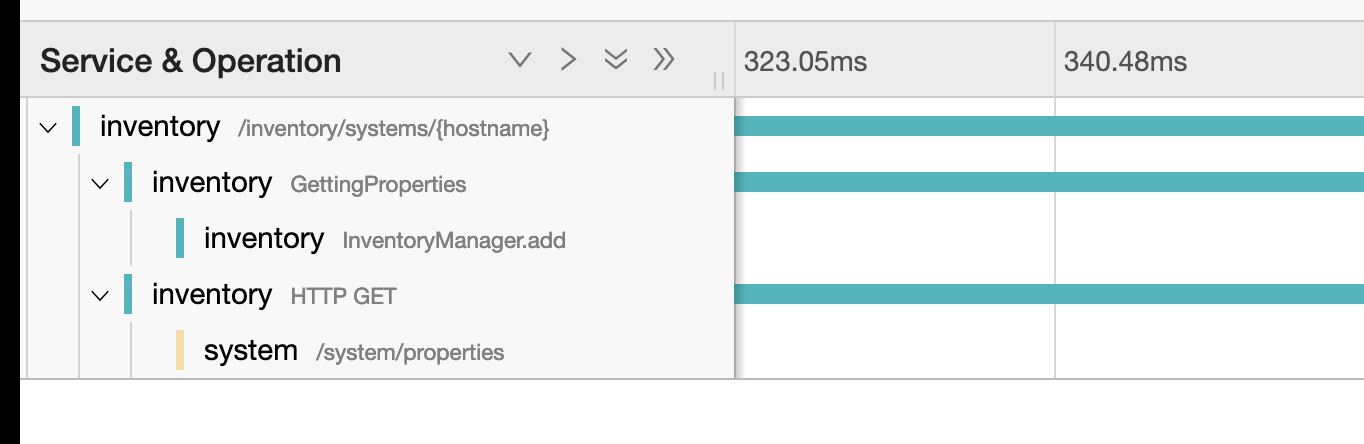
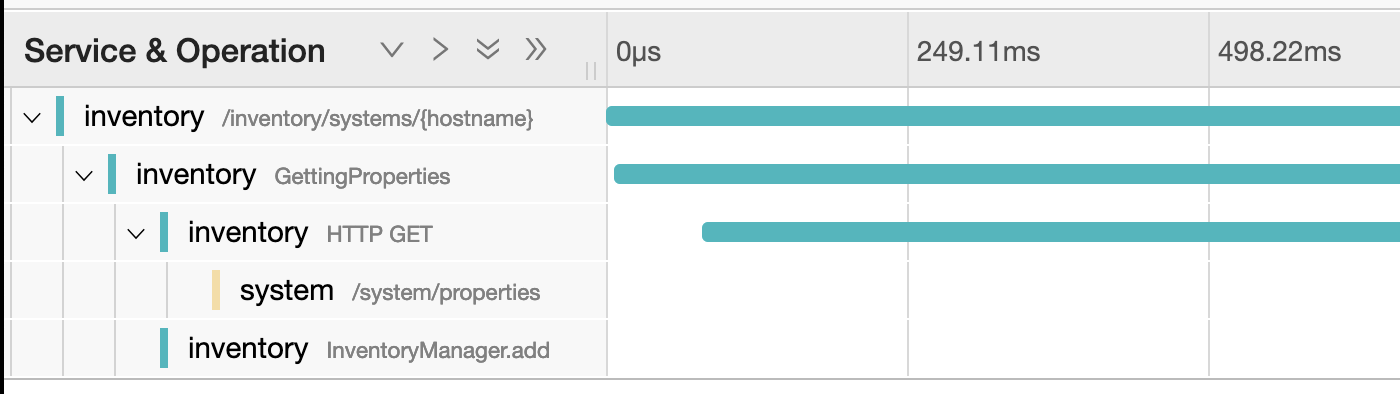
Sme review (#13)
* address sme review

* address sme review

* address sme review

* address sme review

* address sme review

* address sme review

* address Laura review

* address Laura review

diff --git a/finish/inventory/src/main/java/io/openliberty/guides/inventory/InventoryResource.java b/finish/inventory/src/main/java/io/openliberty/guides/inventory/InventoryResource.java
@@ -33,12 +33,13 @@ import jakarta.ws.rs.core.Response;
 public class InventoryResource {
 
     // tag::manager[]
-    @Inject InventoryManager manager;
+    @Inject
+    private InventoryManager manager;
     // end::manager[]
 
     // tag::inject[]
     @Inject
-    Tracer tracer;
+    private Tracer tracer;
     // end::inject[]
 
     @GET
@@ -48,11 +49,14 @@ public class InventoryResource {
         // tag::getPropertiesSpan[]
         Span getPropertiesSpan = tracer.spanBuilder("GettingProperties").startSpan();
         // end::getPropertiesSpan[]
-        // tag::getSystem[]
-        Properties props = manager.get(hostname);
-        // end::getSystem[]
         // tag::try[]
+        Properties props = null;
+        // tag::scope[]
         try (Scope scope = getPropertiesSpan.makeCurrent()) {
+        // end::scope[]
+            // tag::getSystem[]
+            props = manager.get(hostname);
+            // end::getSystem[]
             if (props == null) {
                 // tag::addEvent1[]
                 getPropertiesSpan.addEvent("Cannot get properties");

diff --git a/finish/inventory/src/main/java/io/openliberty/guides/inventory/InventoryManager.java b/finish/inventory/src/main/java/io/openliberty/guides/inventory/InventoryManager.java
@@ -33,7 +33,7 @@ public class InventoryManager {
 
     @Inject
     @ConfigProperty(name = "system.http.port")
-    int SYSTEM_PORT;
+    private int SYSTEM_PORT;
 
     private List<SystemData> systems = Collections.synchronizedList(new ArrayList<>());
     private SystemClient systemClient = new SystemClient();

diff --git a/start/inventory/src/main/java/io/openliberty/guides/inventory/InventoryManager.java b/start/inventory/src/main/java/io/openliberty/guides/inventory/InventoryManager.java
@@ -30,7 +30,7 @@ public class InventoryManager {
 
     @Inject
     @ConfigProperty(name = "system.http.port")
-    int SYSTEM_PORT;
+    private int SYSTEM_PORT;
 
     private List<SystemData> systems = Collections.synchronizedList(new ArrayList<>());
     private SystemClient systemClient = new SystemClient();

diff --git a/start/inventory/src/main/java/io/openliberty/guides/inventory/InventoryResource.java b/start/inventory/src/main/java/io/openliberty/guides/inventory/InventoryResource.java
@@ -28,7 +28,8 @@ import jakarta.ws.rs.core.Response;
 @Path("/systems")
 public class InventoryResource {
 
-    @Inject InventoryManager manager;
+    @Inject
+    private InventoryManager manager;
 
     @GET
     @Path("/{hostname}")
